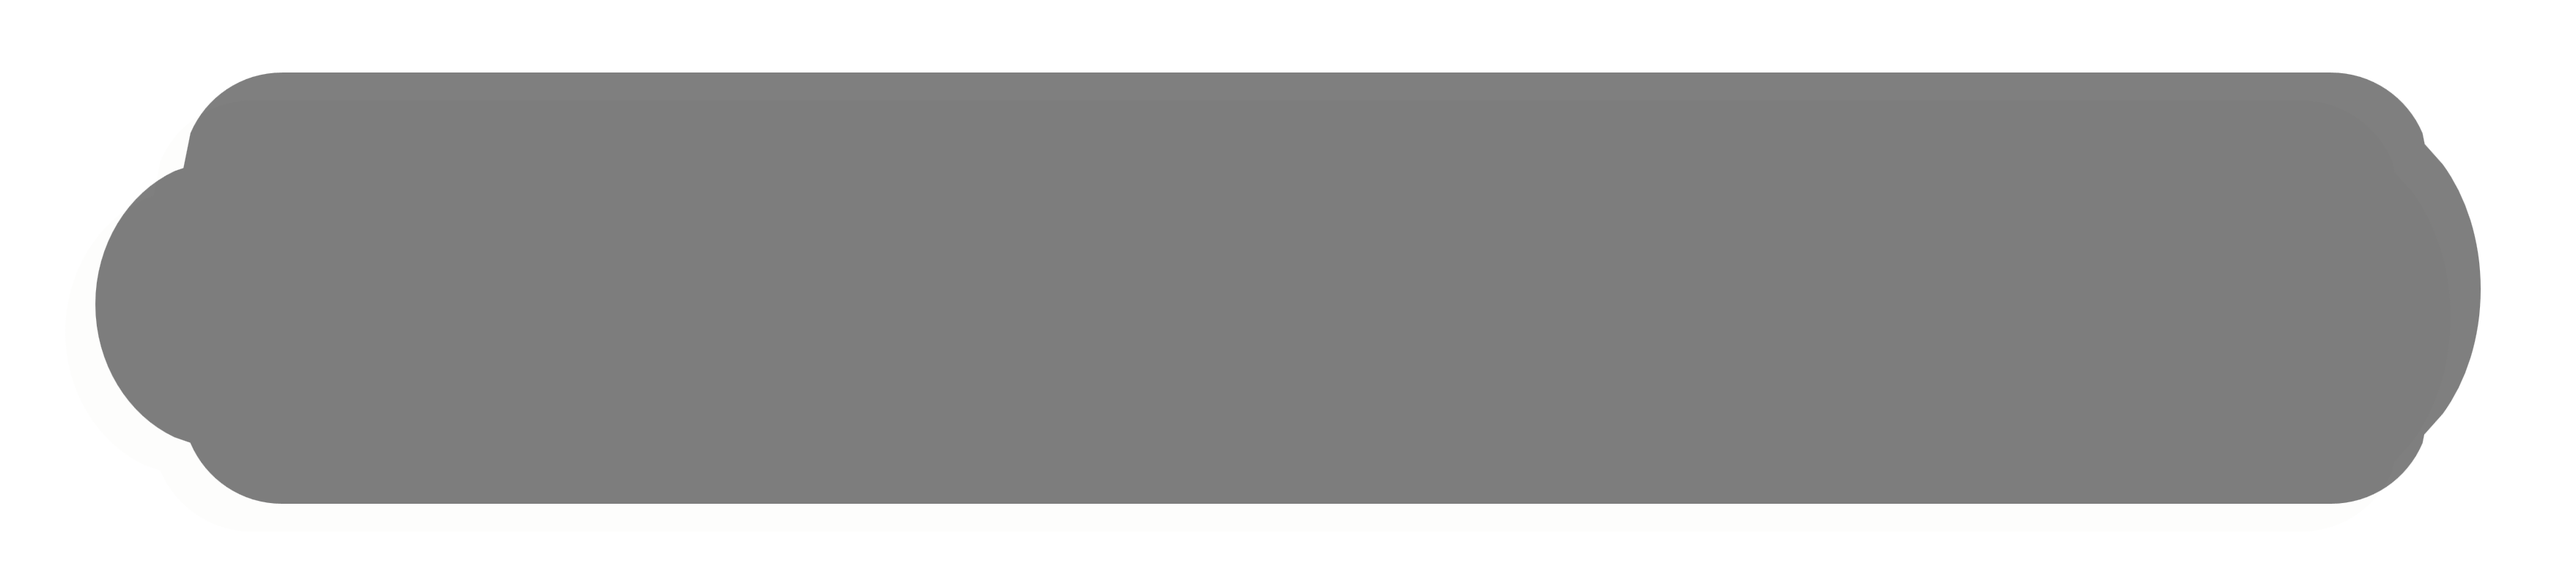
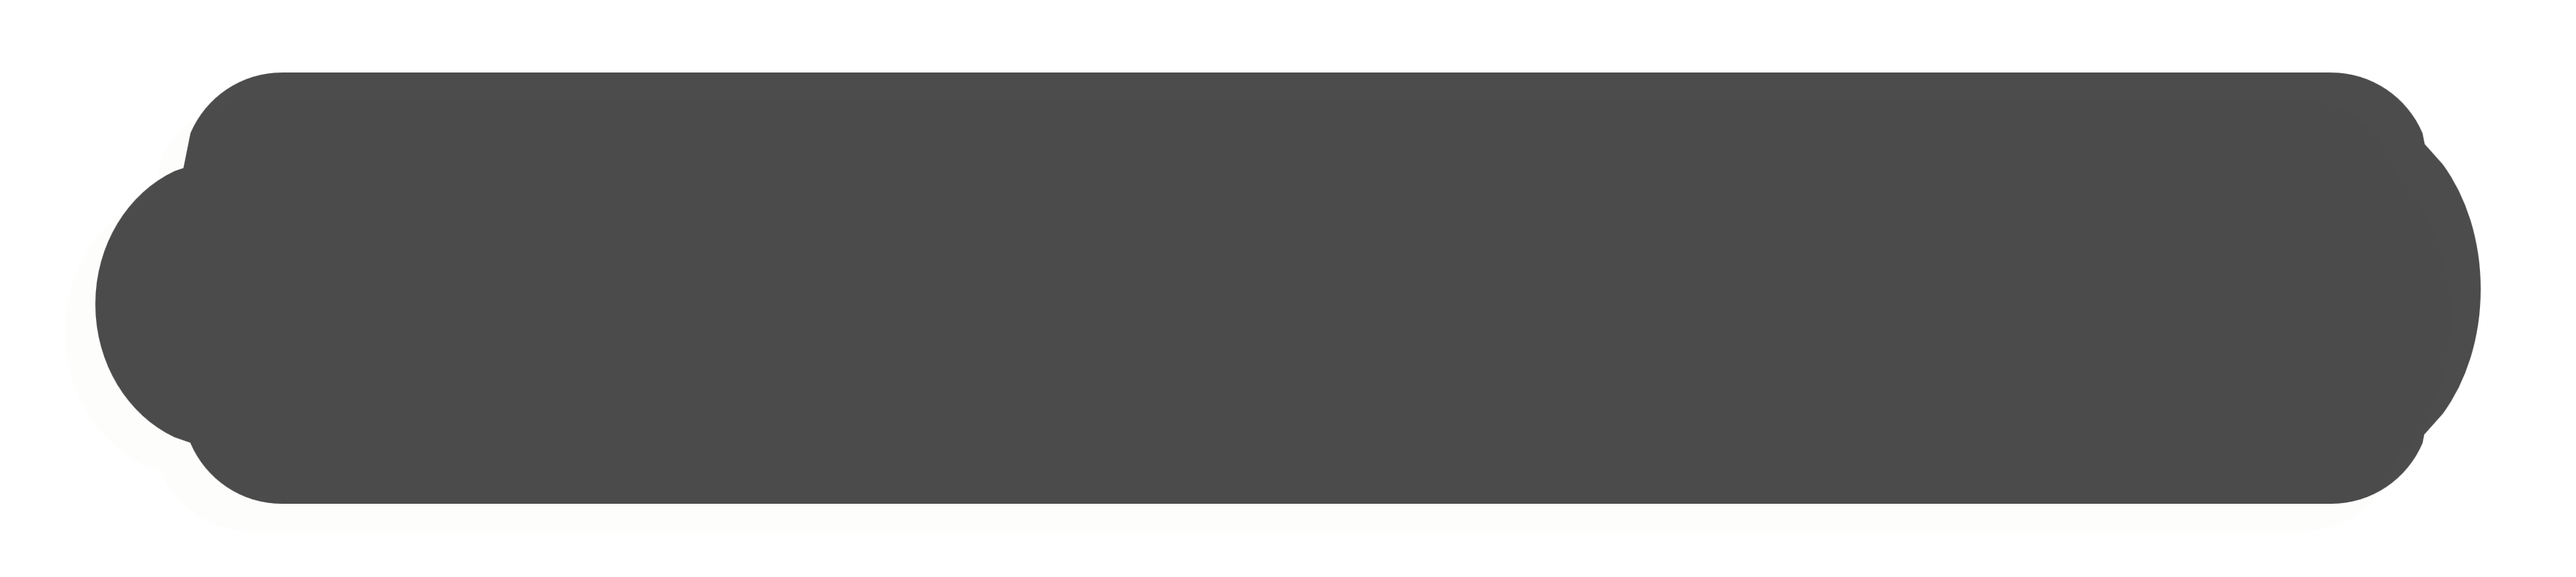
속마음 대화창 배경, 비네팅 이미지 교체

diff --git a/trickcal/cg-gen/stylesheets/main.css b/trickcal/cg-gen/stylesheets/main.css
@@ -305,6 +305,8 @@ input[type=checkbox] {
 
     width: 100%;
     height: 100%;
+
+    opacity: 0.7;
 }
 
 #photo-script-box-area {
